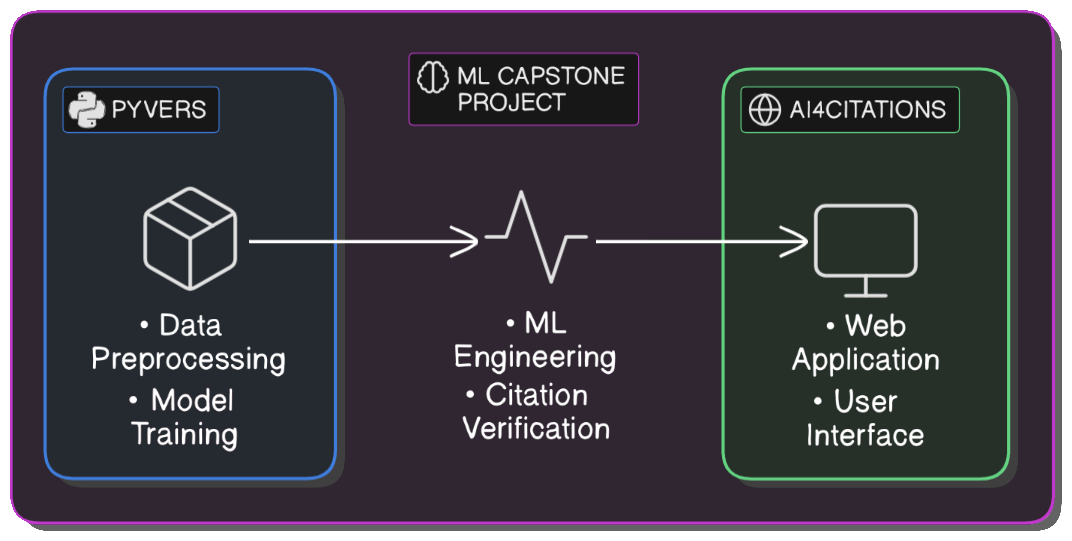
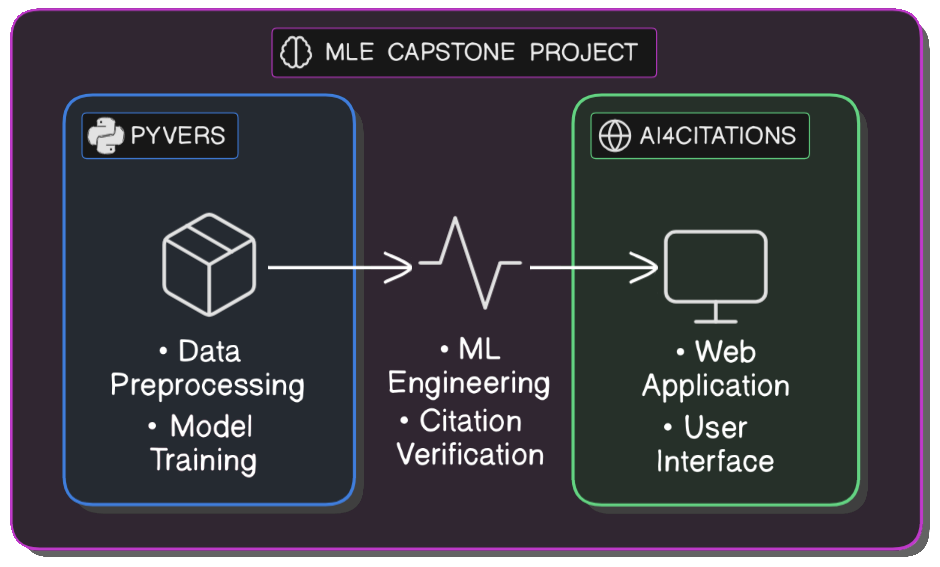
Rename repo and update project diagram

Changed region(s): [[0.0, 0.0, 1.0, 0.976]]

diff --git a/predictions/README.md b/predictions/README.md
@@ -8,19 +8,19 @@ NOTE: The Reproductions and one Baseline model (`bestModel-001`) use the `../bas
 ## Reproductions using the Citation-Integrity codebase
 
 The models here start with the HealthVer checkpoint (`healthver.ckpt`) and use the code in `../model/multivers_citint`.
-See [the notebook](../doc/02_Reproduction-of-Citation-Integrity.ipynb) for more information.
+See [the notebook](../notebooks/01_Reproduction-of-Citation-Integrity.ipynb) for more information.
 
 - `bestModel-001`: This is the best model from the [Citation-Integrity](https://github.com/ScienceNLP-Lab/Citation-Integrity) repository and was downloaded from [Google Drive](https://drive.google.com/drive/u/0/folders/11b6Z8iv2FXObWmLaqfYzgUQsaL4QgTT2?q=parent:11b6Z8iv2FXObWmLaqfYzgUQsaL4QgTT2).
-- `citint_20241127` [[e10022](https://github.com/jedick/ML-capstone-project/commit/e10022ecc4a24646708f6dd81e40f20208d62860)]: This is my first reproduction of the Citation-Integrity model. Except for modification made to `requirements.txt` and imported packages, the codebase is identical to [this commit of Citation-Integrity](https://github.com/ScienceNLP-Lab/Citation-Integrity/commit/277152f9dfe3873455220f4cd15269474ab15617).
-- `citint_20241128` [[cf8461](https://github.com/jedick/ML-capstone-project/commit/cf846148c39557c45d99e2fcbb3409adea4fede3)]: As in previous, but with the dataset in `val_dataloader` changed from `"test"` to `"val"`.
-- `citint_20241129` [[d9782c](https://github.com/jedick/ML-capstone-project/commit/d9782c98b4a017522388b11aafd25bec03507216)]: As in previous, but with the number of epochs in `train_target.py` changed from 5 to 20.
+- `citint_20241127` [[e10022](https://github.com/jedick/MLE-capstone-project/commit/e10022ecc4a24646708f6dd81e40f20208d62860)]: This is my first reproduction of the Citation-Integrity model. Except for modification made to `requirements.txt` and imported packages, the codebase is identical to [this commit of Citation-Integrity](https://github.com/ScienceNLP-Lab/Citation-Integrity/commit/277152f9dfe3873455220f4cd15269474ab15617).
+- `citint_20241128` [[cf8461](https://github.com/jedick/MLE-capstone-project/commit/cf846148c39557c45d99e2fcbb3409adea4fede3)]: As in previous, but with the dataset in `val_dataloader` changed from `"test"` to `"val"`.
+- `citint_20241129` [[d9782c](https://github.com/jedick/MLE-capstone-project/commit/d9782c98b4a017522388b11aafd25bec03507216)]: As in previous, but with the number of epochs in `train_target.py` changed from 5 to 20.
 
 ## Baseline models
 
-- Files in the `baseline` directory [[cf59c5](https://github.com/jedick/ML-capstone-project/commit/cf59c51ab8d022070d65716bda1cbe4d704c9a51)].
+- Files in the `baseline` directory [[cf59c5](https://github.com/jedick/MLE-capstone-project/commit/cf59c51ab8d022070d65716bda1cbe4d704c9a51)].
 - File names: {starting checkpoint}\_{training dataset}\_{split}.jsonl.
 - These predictions are made using checkpoints from MultiVerS and Citation-Integrity; no additional training was done.
-- See [the notebook](../doc/07_Baselines.ipynb) for more information.
+- See [the notebook](../notebooks/06_Baselines.ipynb) for more information.
 
 ## Starting checkpoint and rationale weight
 
@@ -29,5 +29,5 @@ See [the notebook](../doc/02_Reproduction-of-Citation-Integrity.ipynb) for more 
 - The training uses two settings for rationale weight (15 to enable the rationale identification task in MultiVerS and 0 to disable it).
 - Predictions are made for the test splits.
 - Predictions for the dev splits are in `ckpt_rationale_dev`.
-- See [the notebook](../doc/08_Checkpoints_and_Rationale_Weight.ipynb) for more information.
+- See [the notebook](../notebooks/07_Checkpoints_and_Rationale_Weight.ipynb) for more information.
 

diff --git a/README.md b/README.md
@@ -1,9 +1,11 @@
-# ML Capstone Project
+# ML Engineering Capstone Project
 
 This project develops an NLP framework for automated validation of citations and claims, ensuring references accurately support stated information.
 We build on established datasets and models to classify citation accuracy as SUPPORT, REFUTE, or NEI (Not Enough Information).
 
-![ML Capstone Project Diagram](./images/project_diagram.png)
+<div align="center">
+  <img src="./images/project_diagram.png" alt="MLE Capstone Project Diagram" style="width:75%;"/>
+</div>
 
 ## Highlights
 
@@ -19,7 +21,7 @@ We build on established datasets and models to classify citation accuracy as SUP
   - Barchart visualization of class probabilities
   - Choose from pretrained and fine-tuned models
 
-The model created in this project achieves <i>7 percentage point increase in average F1</i> over the best baseline model fine-tuned on a single dataset:
+The model generated in this project achieves a <i>7 percentage point increase in average F1</i> over the best baseline model fine-tuned on a single dataset:
 
 <table>
   <tr>
@@ -39,21 +41,22 @@ The model created in this project achieves <i>7 percentage point increase in ave
     <td><i>0.48</i></td>
   </tr>
   <tr>
-    <td>Citation-Integrity baseline [1]</td>
+    <td>Citation-Integrity baseline [2]</td>
     <td>0.74</td>
     <td>0.44</td>
     <td><i>0.59</i></td>
   </tr>
   <tr>
-    <td>Fine-tuned DeBERTa [2]</td>
+    <td>Fine-tuned DeBERTa [3]</td>
     <td><strong>0.84</strong></td>
     <td><strong>0.47</strong></td>
     <td><strong><i>0.66</i></strong></td>
   </tr>
 </table>
 
-- [1] Fine-tuned MultiVerS on one dataset by the original authors ([Wadden et al., 2021](https://doi.org/10.48550/arXiv.2112.01640); [Sarol et al., 2024](https://doi.org/10.1093/bioinformatics/btae420))
-- [2] Fine-tuned DeBERTa on shuffled data from both datasets in this project
+- [1] MultiVerS pretrained on FeverSci and fine-tuned on SciFact by [Wadden et al. (2021)](https://doi.org/10.48550/arXiv.2112.01640)
+- [2] MultiVerS pretrained on HealthVer and fine-tuned on Citation-Integrity by [Sarol et al. (2024)](https://doi.org/10.1093/bioinformatics/btae420)
+- [3] DeBERTa v3 [pretrained on multiple NLI datasets](https://huggingface.co/MoritzLaurer/DeBERTa-v3-base-mnli-fever-anli) and fine-tuned on shuffled data from SciFact and Citation-Integrity in this project
 
 ## Milestones
 

diff --git a/baselines/README.md b/baselines/README.md
@@ -63,12 +63,12 @@ CUDA_LAUNCH_BLOCKING=1 TOKENIZERS_PARALLELISM=false python script/train_target.p
 
 ## Change Log
 
-- [[1dba23](https://github.com/jedick/ML-capstone-project/commit/1dba23cd2cdef341ed37df76f2f37f50a4cfec03)] (2024-12-16) Normalized labels across datasets (`SUPPORT`, `REFUTE`, `NEI`)
-- [[a5b029](https://github.com/jedick/ML-capstone-project/commit/a5b0298ecbad2d2ab1ee02fad5487f966a29f6cf)] (2024-12-16) Made modifications to MultiVerS codebase:
+- [[1dba23](https://github.com/jedick/MLE-capstone-project/commit/1dba23cd2cdef341ed37df76f2f37f50a4cfec03)] (2024-12-16) Normalized labels across datasets (`SUPPORT`, `REFUTE`, `NEI`)
+- [[a5b029](https://github.com/jedick/MLE-capstone-project/commit/a5b0298ecbad2d2ab1ee02fad5487f966a29f6cf)] (2024-12-16) Made modifications to MultiVerS codebase:
   - Simplified requirements.txt
   - Reduced `num_epochs` from 20 to 5
   - Added support for Citation-Integrity (`citint`) and original SciFact datasets
-- [[13ebe7](https://github.com/jedick/ML-capstone-project/commit/13ebe74cb872e1344d352d630f11d4b8e4be67cf)] (2024-11-27) Cloned Citation-Integrity codebase; noted key differences from MultiVerS:
+- [[13ebe7](https://github.com/jedick/MLE-capstone-project/commit/13ebe74cb872e1344d352d630f11d4b8e4be67cf)] (2024-11-27) Cloned Citation-Integrity codebase; noted key differences from MultiVerS:
   - Training epochs reduced from 20 to 5
   - Additional tokens: `<|cit|>`, `<|multi_cit|>`, `<|other_cit|>`
   - Setting for `rationale_weight` changed from 15 to 0
